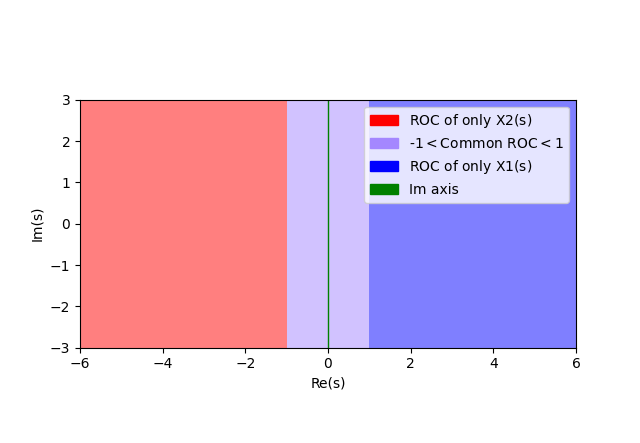
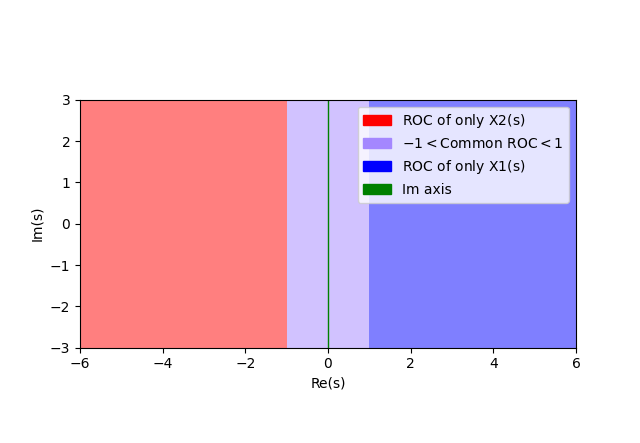
bm39

Changed region(s): [[0.5625, 0.2348, 0.8438, 0.4695]]

diff --git a/bm-39/codes/graph.py b/bm-39/codes/graph.py
@@ -3,9 +3,7 @@ import matplotlib.pyplot as plt
 import matplotlib.patches as mpatches
 
 Re_s = np.linspace(-6, 6, 400)
-
 Im_s = np.linspace(-3, 3, 400)
-
 Re_s, Im_s = np.meshgrid(Re_s, Im_s)
 
 dark_purple = '#A487FF'
@@ -14,20 +12,16 @@ blue = 'blue'
 green = 'green'
 
 plt.contourf(Re_s, Im_s, Re_s, levels=[-np.inf, -1, 1, np.inf], colors=[red, dark_purple, blue], alpha=0.5)
-
 plt.xlabel('Re(s)')
 plt.ylabel('Im(s)')
-
 plt.axvline(x=0, color=green, linewidth=1)
-
 plt.gca().set_aspect('equal', adjustable='box')
 
-red_patch = mpatches.Patch(color=red, label=r'$\text{ROC of only X2(s)} $')
-dark_purple_patch = mpatches.Patch(color=dark_purple, label=r'$\text{-1} < \text{Common ROC} < 1$')
-blue_patch = mpatches.Patch(color=blue, label=r'$\text{ROC of only X1(s)}$')
+red_patch = mpatches.Patch(color=red, label=r'$\mathrm{ROC\ of\ only\ X2(s)} $')
+dark_purple_patch = mpatches.Patch(color=dark_purple, label=r'$-1 < \mathrm{Common\ ROC} < 1$')
+blue_patch = mpatches.Patch(color=blue, label=r'$\mathrm{ROC\ of\ only\ X1(s)}$')
 green_line = mpatches.Patch(color=green, label='Im axis')
 
 plt.legend(handles=[red_patch, dark_purple_patch, blue_patch, green_line])
-
 plt.show()
 
